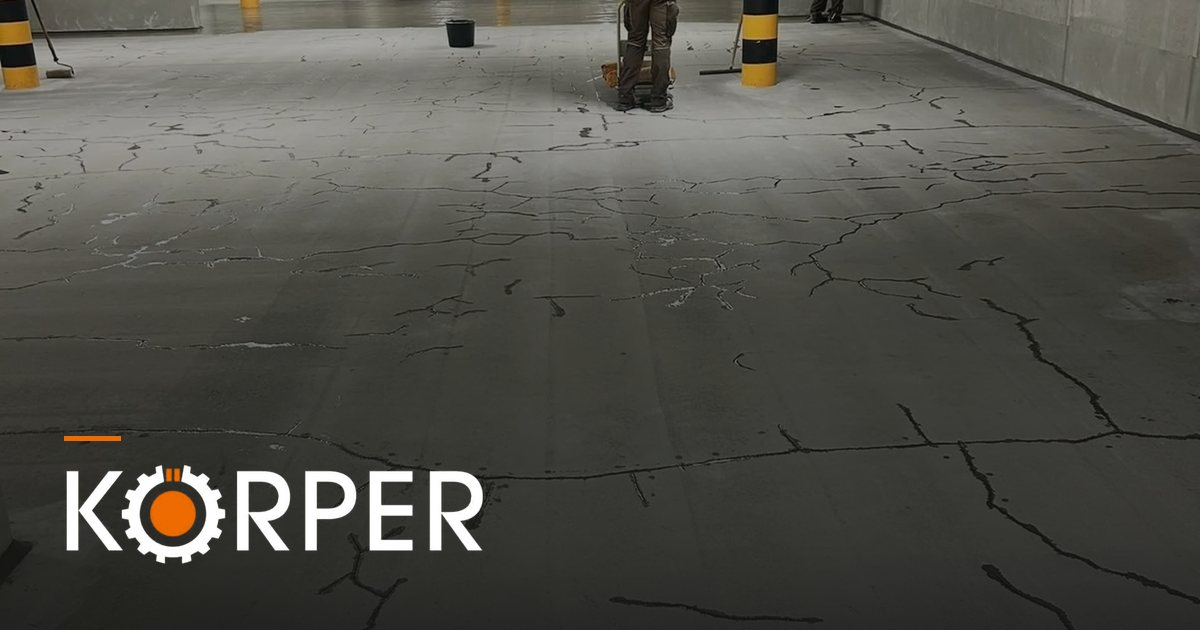
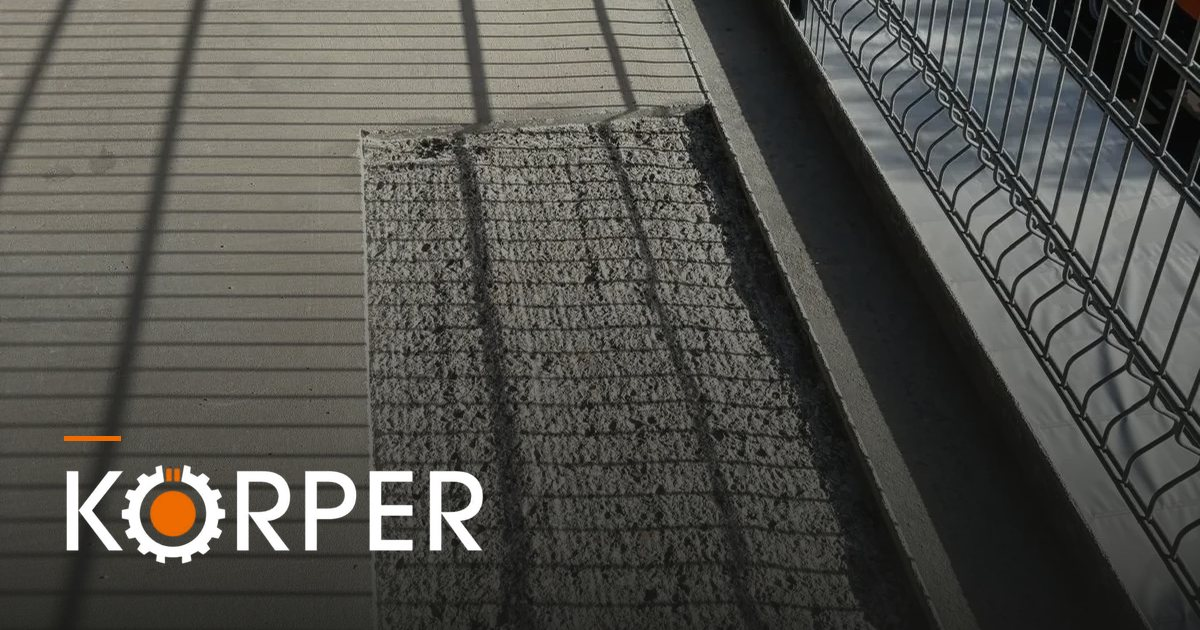
Betoninstandsetzung-Bilder und Kennzahlen-Layout
- Betoninstandsetzung: Titelbild und Galerie aus dem Projekt München
  (Betonabtrag, Neuaufbau, fertige Fläche) statt Platzhalter
- Projektatlas: 1.040.100 m² passt jetzt in allen Breiten (breitere Flächenspalte,
  Schrift skaliert mit der Breite); auf dem Handy Fläche als eigene Zeile oben

diff --git a/assets/css/atlas.css b/assets/css/atlas.css
@@ -24,13 +24,13 @@
 .atlas-intro { margin: 0; color: var(--a-mut); max-width: 46ch; }
 
 /* ---------- Kennzahlen ---------- */
-.atlas-stats { display: grid; grid-template-columns: repeat(4, minmax(0, 1fr)); margin: clamp(40px, 5vw, 72px) 0 0; border-top: 1px solid var(--a-line); border-bottom: 1px solid var(--a-line); }
+.atlas-stats { container-type: inline-size; display: grid; grid-template-columns: minmax(0, 1fr) minmax(0, 1.45fr) minmax(0, 1fr) minmax(0, .8fr); margin: clamp(40px, 5vw, 72px) 0 0; border-top: 1px solid var(--a-line); border-bottom: 1px solid var(--a-line); }
 .atlas-stats > div { padding: 22px 0 20px; display: flex; flex-direction: column-reverse; gap: 4px; }
 .atlas-stats > div + div { padding-left: clamp(14px, 2vw, 28px); border-left: 1px solid var(--a-line); }
 .atlas-stats-note { margin: 12px 0 0; font-size: 14px; color: var(--a-mut); }
 .atlas-stats-note b { color: var(--white); font-weight: 600; font-variant-numeric: tabular-nums; }
 .atlas-stats dt { font-family: var(--f-display); font-weight: 600; font-size: 13px; letter-spacing: .12em; text-transform: uppercase; color: var(--a-mut); }
-.atlas-stats dd { margin: 0; font-family: var(--f-display); font-weight: 700; font-size: clamp(38px, 5vw, 84px); line-height: .9; font-variant-numeric: tabular-nums; color: var(--white); }
+.atlas-stats dd { margin: 0; font-family: var(--f-display); font-weight: 700; font-size: min(clamp(38px, 5vw, 84px), 6.6cqi); white-space: nowrap; line-height: .9; font-variant-numeric: tabular-nums; color: var(--white); }
 .atlas-stats > div:nth-child(2) dd { color: var(--orange); }
 
 /* ---------- Filter ---------- */
@@ -152,16 +152,19 @@
 }
 @media (max-width: 760px) {
   .atlas-head { grid-template-columns: 1fr; }
-  .atlas-stats { grid-template-columns: repeat(2, minmax(0, 1fr)); }
-  .atlas-stats > div:nth-child(3) { padding-left: 0; border-left: 0; }
-  .atlas-stats > div:nth-child(n + 3) { border-top: 1px solid var(--a-line); }
+  /* Handy: Fläche als große Zeile oben, die drei anderen Zahlen darunter nebeneinander */
+  .atlas-stats { grid-template-columns: repeat(3, minmax(0, 1fr)); }
+  .atlas-stats > div:nth-child(2) { grid-column: 1 / -1; order: -1; padding-left: 0; border-left: 0; border-bottom: 1px solid var(--a-line); }
+  .atlas-stats > div:nth-child(1) { padding-left: 0; border-left: 0; }
   .atlas-filter { flex-wrap: nowrap; overflow-x: auto; margin-inline: calc(var(--gutter) * -1); padding-inline: var(--gutter); scrollbar-width: none; }
   .atlas-filter::-webkit-scrollbar { display: none; }
   .af-chip { flex: none; }
   .atlas { padding-block: 72px 80px; }
   .atlas-stats { margin-top: 32px; }
   .atlas-stats > div { padding: 16px 0 14px; }
-  .atlas-stats dd { font-size: 44px; }
+  .atlas-stats dd { font-size: min(40px, 10.5cqi); }
+  .atlas-stats > div:nth-child(2) dd { font-size: min(64px, 17cqi); }
+  .atlas-stats > div { justify-content: flex-end; }  /* Zahlen oben auf einer Linie, auch wenn ein Label umbricht */
   .atlas-filter { margin: 20px calc(var(--gutter) * -1) 28px; }
   .atlas-legend { font-size: 12px; gap: 4px 16px; }
   .lg-x { display: none; }
